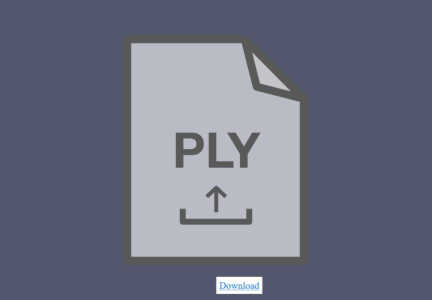
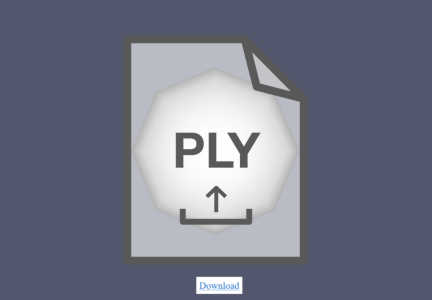
fix(plywriter): fix vtkPLYWriter normals
Also update the example and associated example image for the gallery

Changed region(s): [[0.3009, 0.24, 0.6921, 0.75], [0.4514, 0.9, 0.6319, 0.99]]

diff --git a/Sources/IO/Geometry/PLYWriter/example/index.js b/Sources/IO/Geometry/PLYWriter/example/index.js
@@ -22,19 +22,19 @@ const reader = vtkPolyDataReader.newInstance();
 const writerReader = vtkPLYReader.newInstance();
 
 const writer = vtkPLYWriter.newInstance();
+writer.setInputConnection(reader.getOutputPort());
 reader
   .setUrl(`${__BASE_PATH__}/data/legacy/sphere.vtk`, { loadData: true })
   .then(() => {
-    writer.setInputData(reader.getOutputData());
-
     // writer.setTextureFileName('mytexture.jpg');
 
     const fileContents = writer.getOutputData();
+    writerReader.parseAsText(new TextEncoder().encode(fileContents));
     // Can also use a static function to write to PLY:
     // const fileContents = vtkPLYWriter.writePLY(reader.getOutputData());
+    // writerReader.parseAsArrayBuffer(fileContents.buffer);
 
     // Display the resulting PLY
-    writerReader.parseAsArrayBuffer(fileContents.buffer);
     renderer.resetCamera();
     renderWindow.render();
 

diff --git a/Sources/IO/Geometry/PLYWriter/index.js b/Sources/IO/Geometry/PLYWriter/index.js
@@ -361,9 +361,9 @@ function writePLY(
     }
 
     if (normals) {
-      nx = normals.getData()[i * 2];
-      ny = normals.getData()[i * 2 + 1];
-      nz = normals.getData()[i * 2 + 2];
+      nx = normals.getData()[i * 3];
+      ny = normals.getData()[i * 3 + 1];
+      nz = normals.getData()[i * 3 + 2];
     }
 
     writer.writeVertice(x, y, z, nx, ny, nz, u, v, r, g, b);
